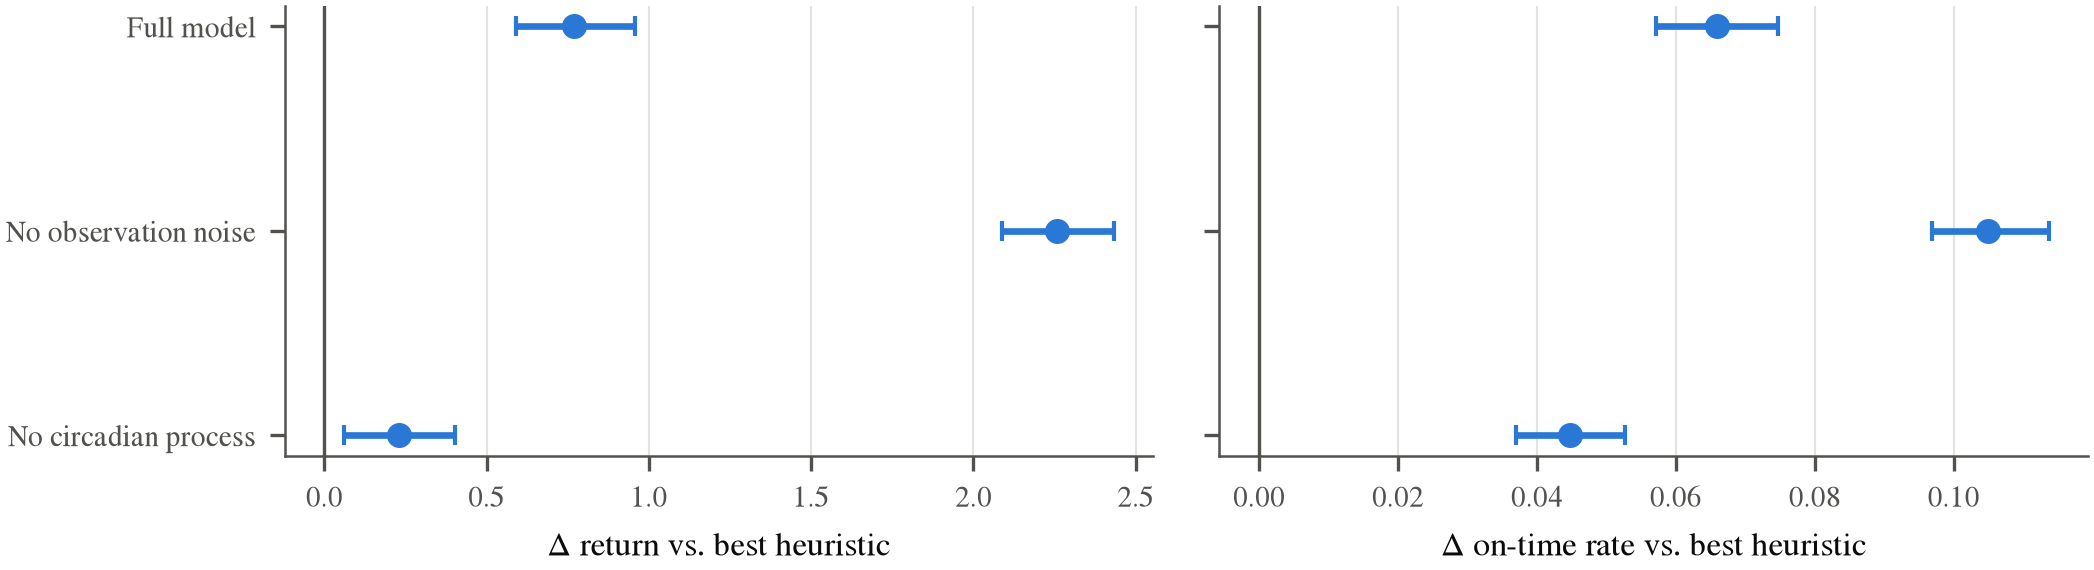
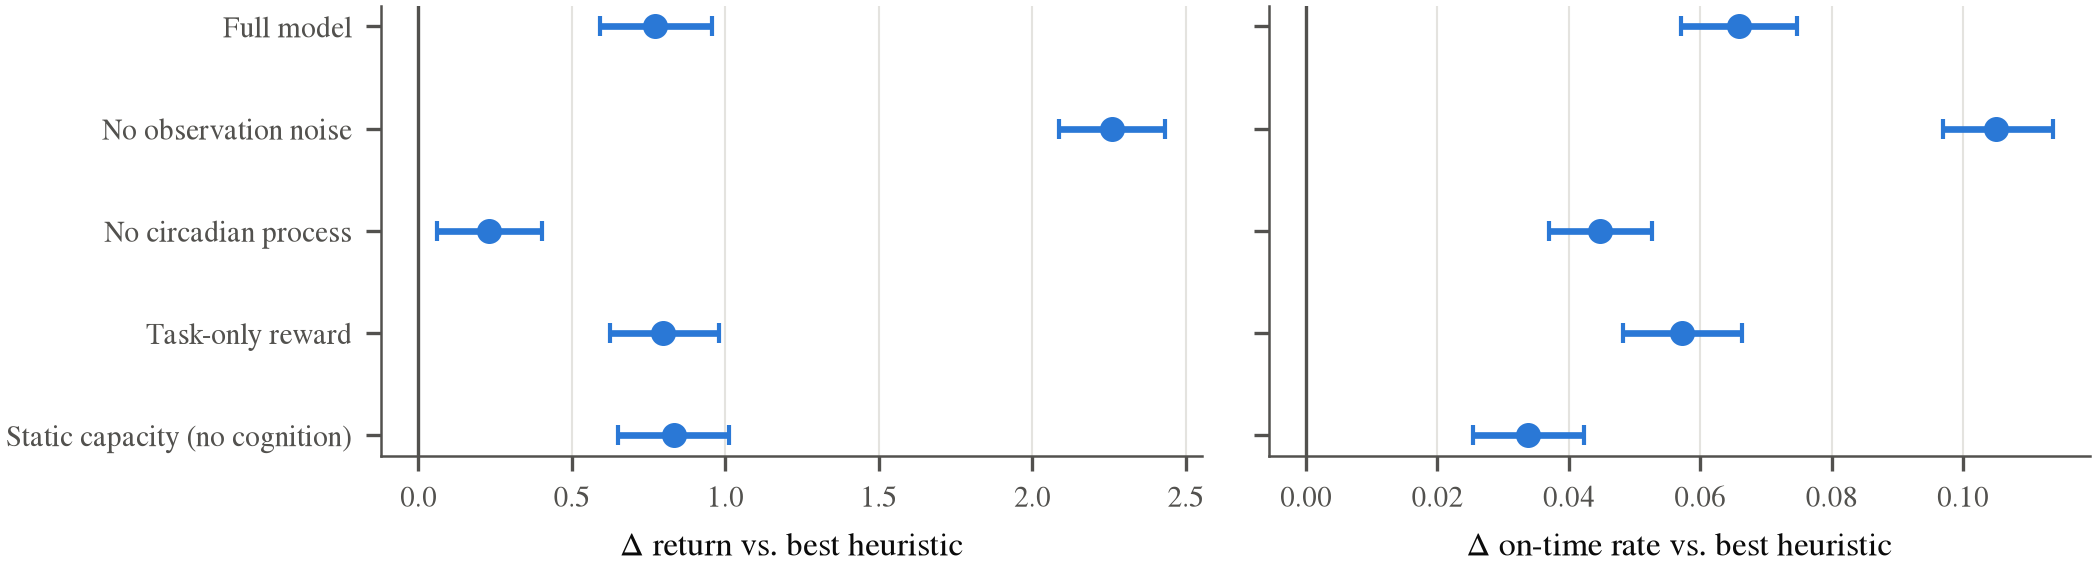
Update interim figures and tables
Claude-Session: https://claude.ai/code/session_01TxhsDbY8UPwNFzUEnxGRVU

diff --git a/paper/tables/ablations.tex b/paper/tables/ablations.tex
@@ -5,5 +5,7 @@ Environment variant & AA-DQN return & Best heuristic (return) & $\Delta$ return 
 Full model & 12.19 $\pm$ 0.27 & EDF-Periodic (11.41) & +0.77 [+0.59, +0.96] & 0.726 & EDF-Periodic (0.660) & +0.066 [+0.057, +0.075] \\
 No observation noise & 13.67 $\pm$ 0.08 & EDF-Periodic (11.41) & +2.26 [+2.09, +2.43] & 0.765 & EDF-Periodic (0.660) & +0.105 [+0.097, +0.114] \\
 No circadian process & 13.08 $\pm$ 0.24 & EDF-Periodic (12.84) & +0.23 [+0.06, +0.40] & 0.760 & EDF-Periodic (0.715) & +0.045 [+0.037, +0.053] \\
+Task-only reward & 11.72 $\pm$ 0.22 & EDF-Periodic (10.92) & +0.80 [+0.62, +0.98] & 0.718 & EDF-Periodic (0.660) & +0.057 [+0.048, +0.066] \\
+Static capacity (no cognition) & 10.33 $\pm$ 0.05 & SPT (9.50) & +0.83 [+0.65, +1.01] & 0.667 & SPT (0.633) & +0.034 [+0.025, +0.042] \\
 \bottomrule
 \end{tabular}
